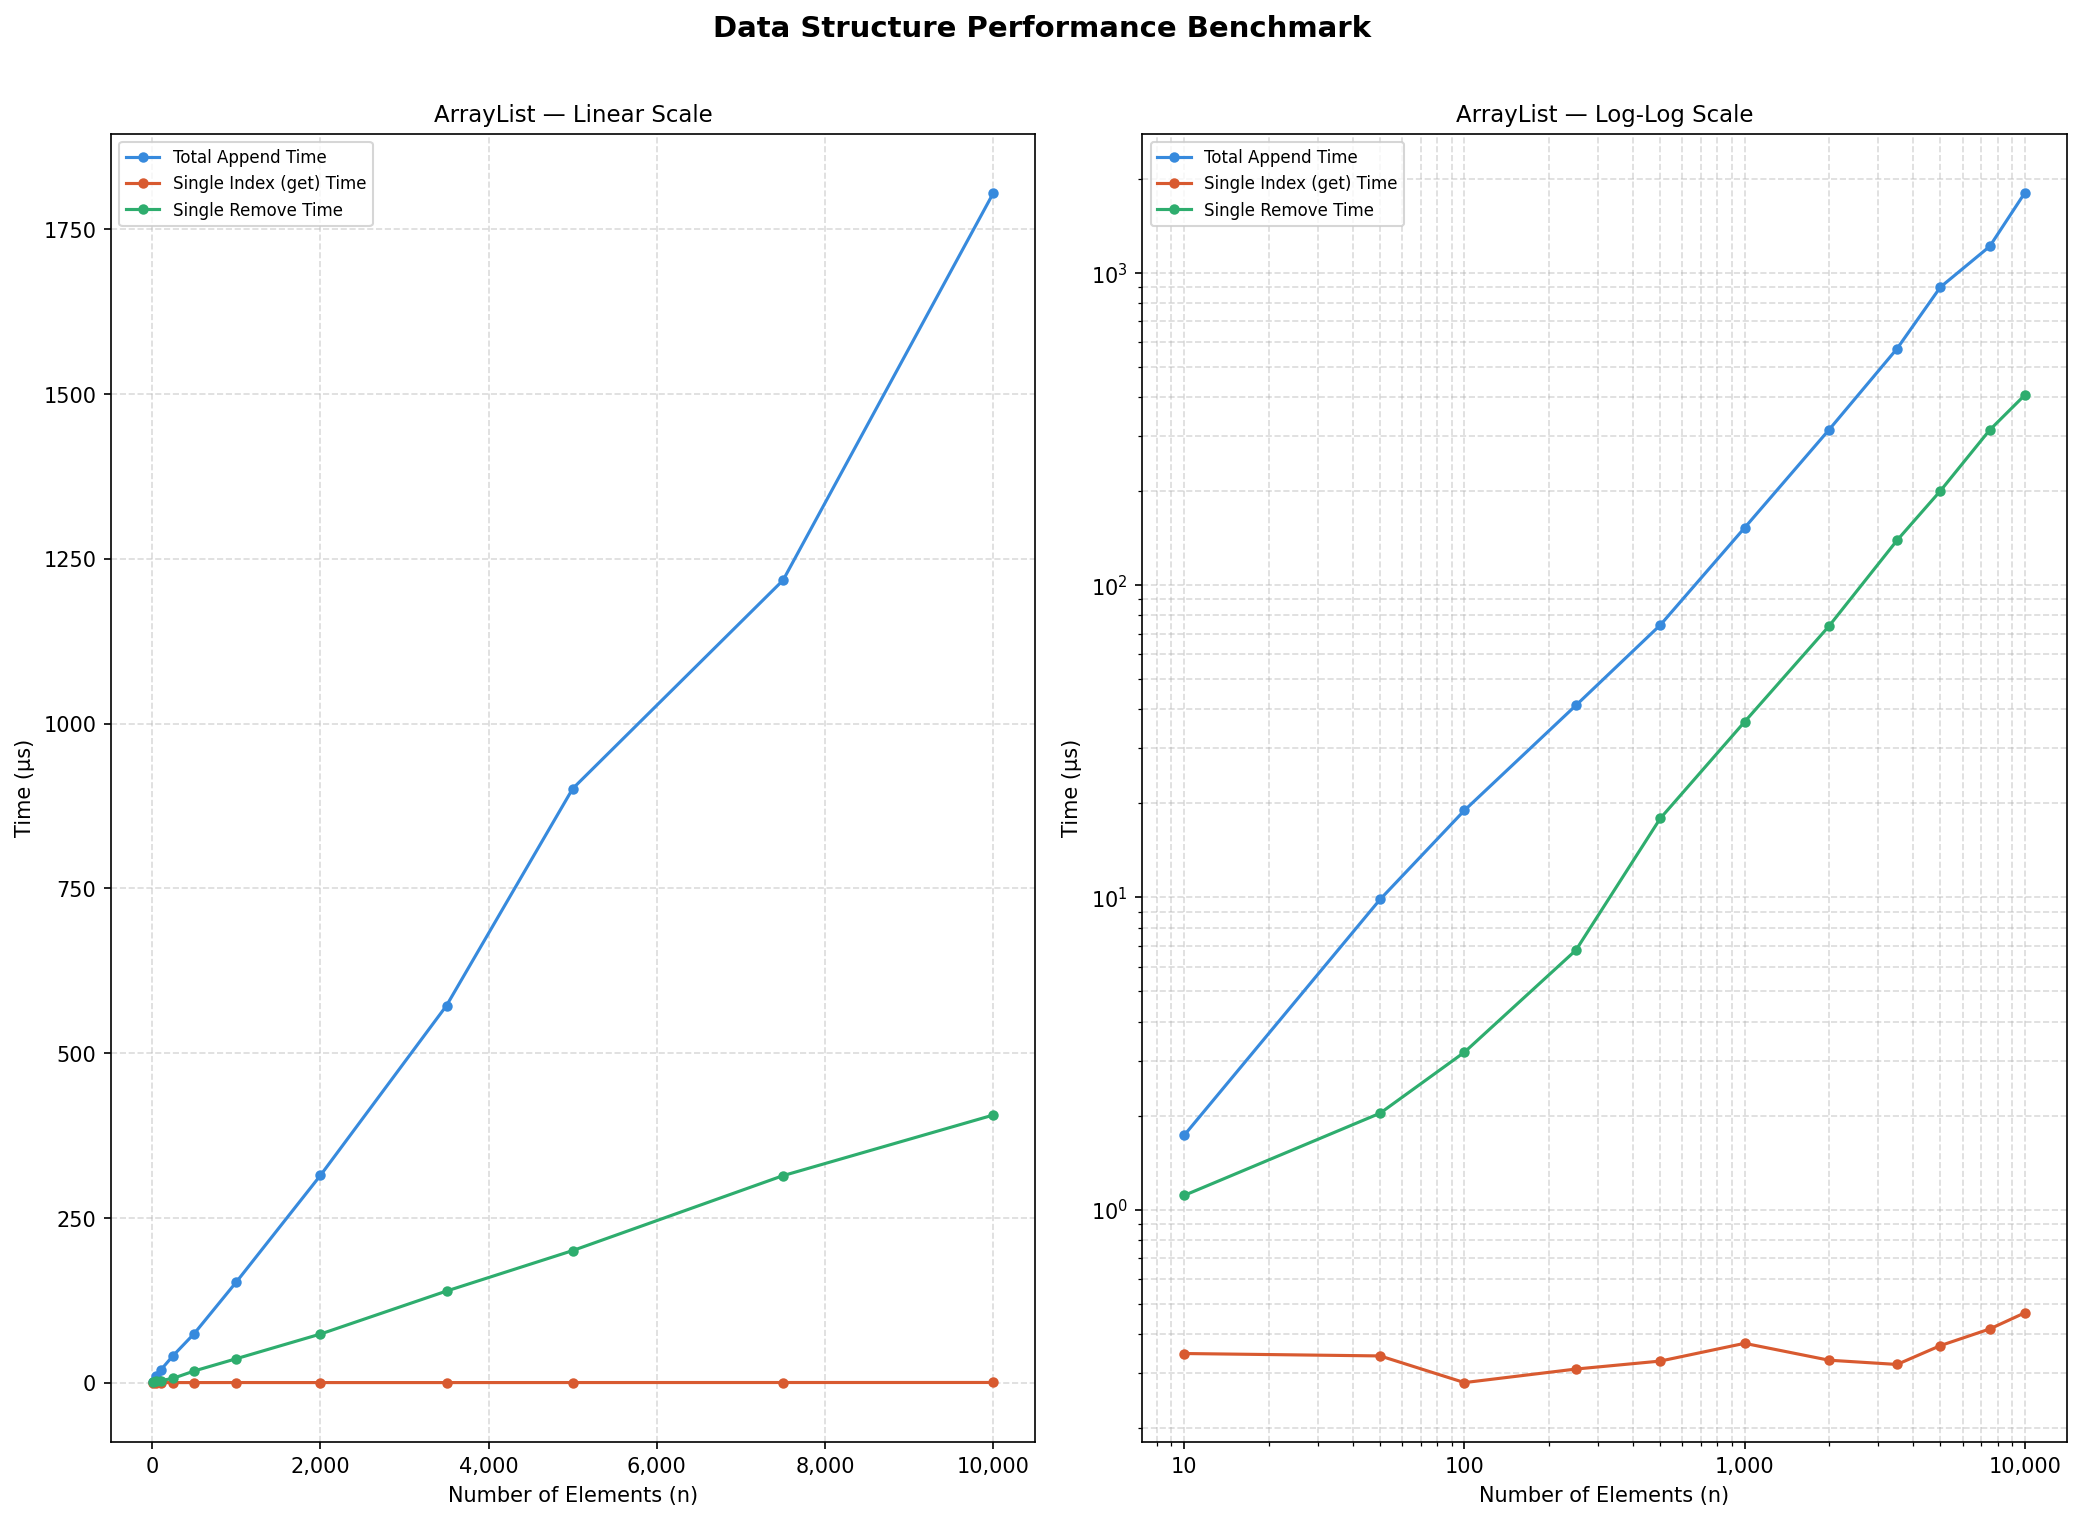
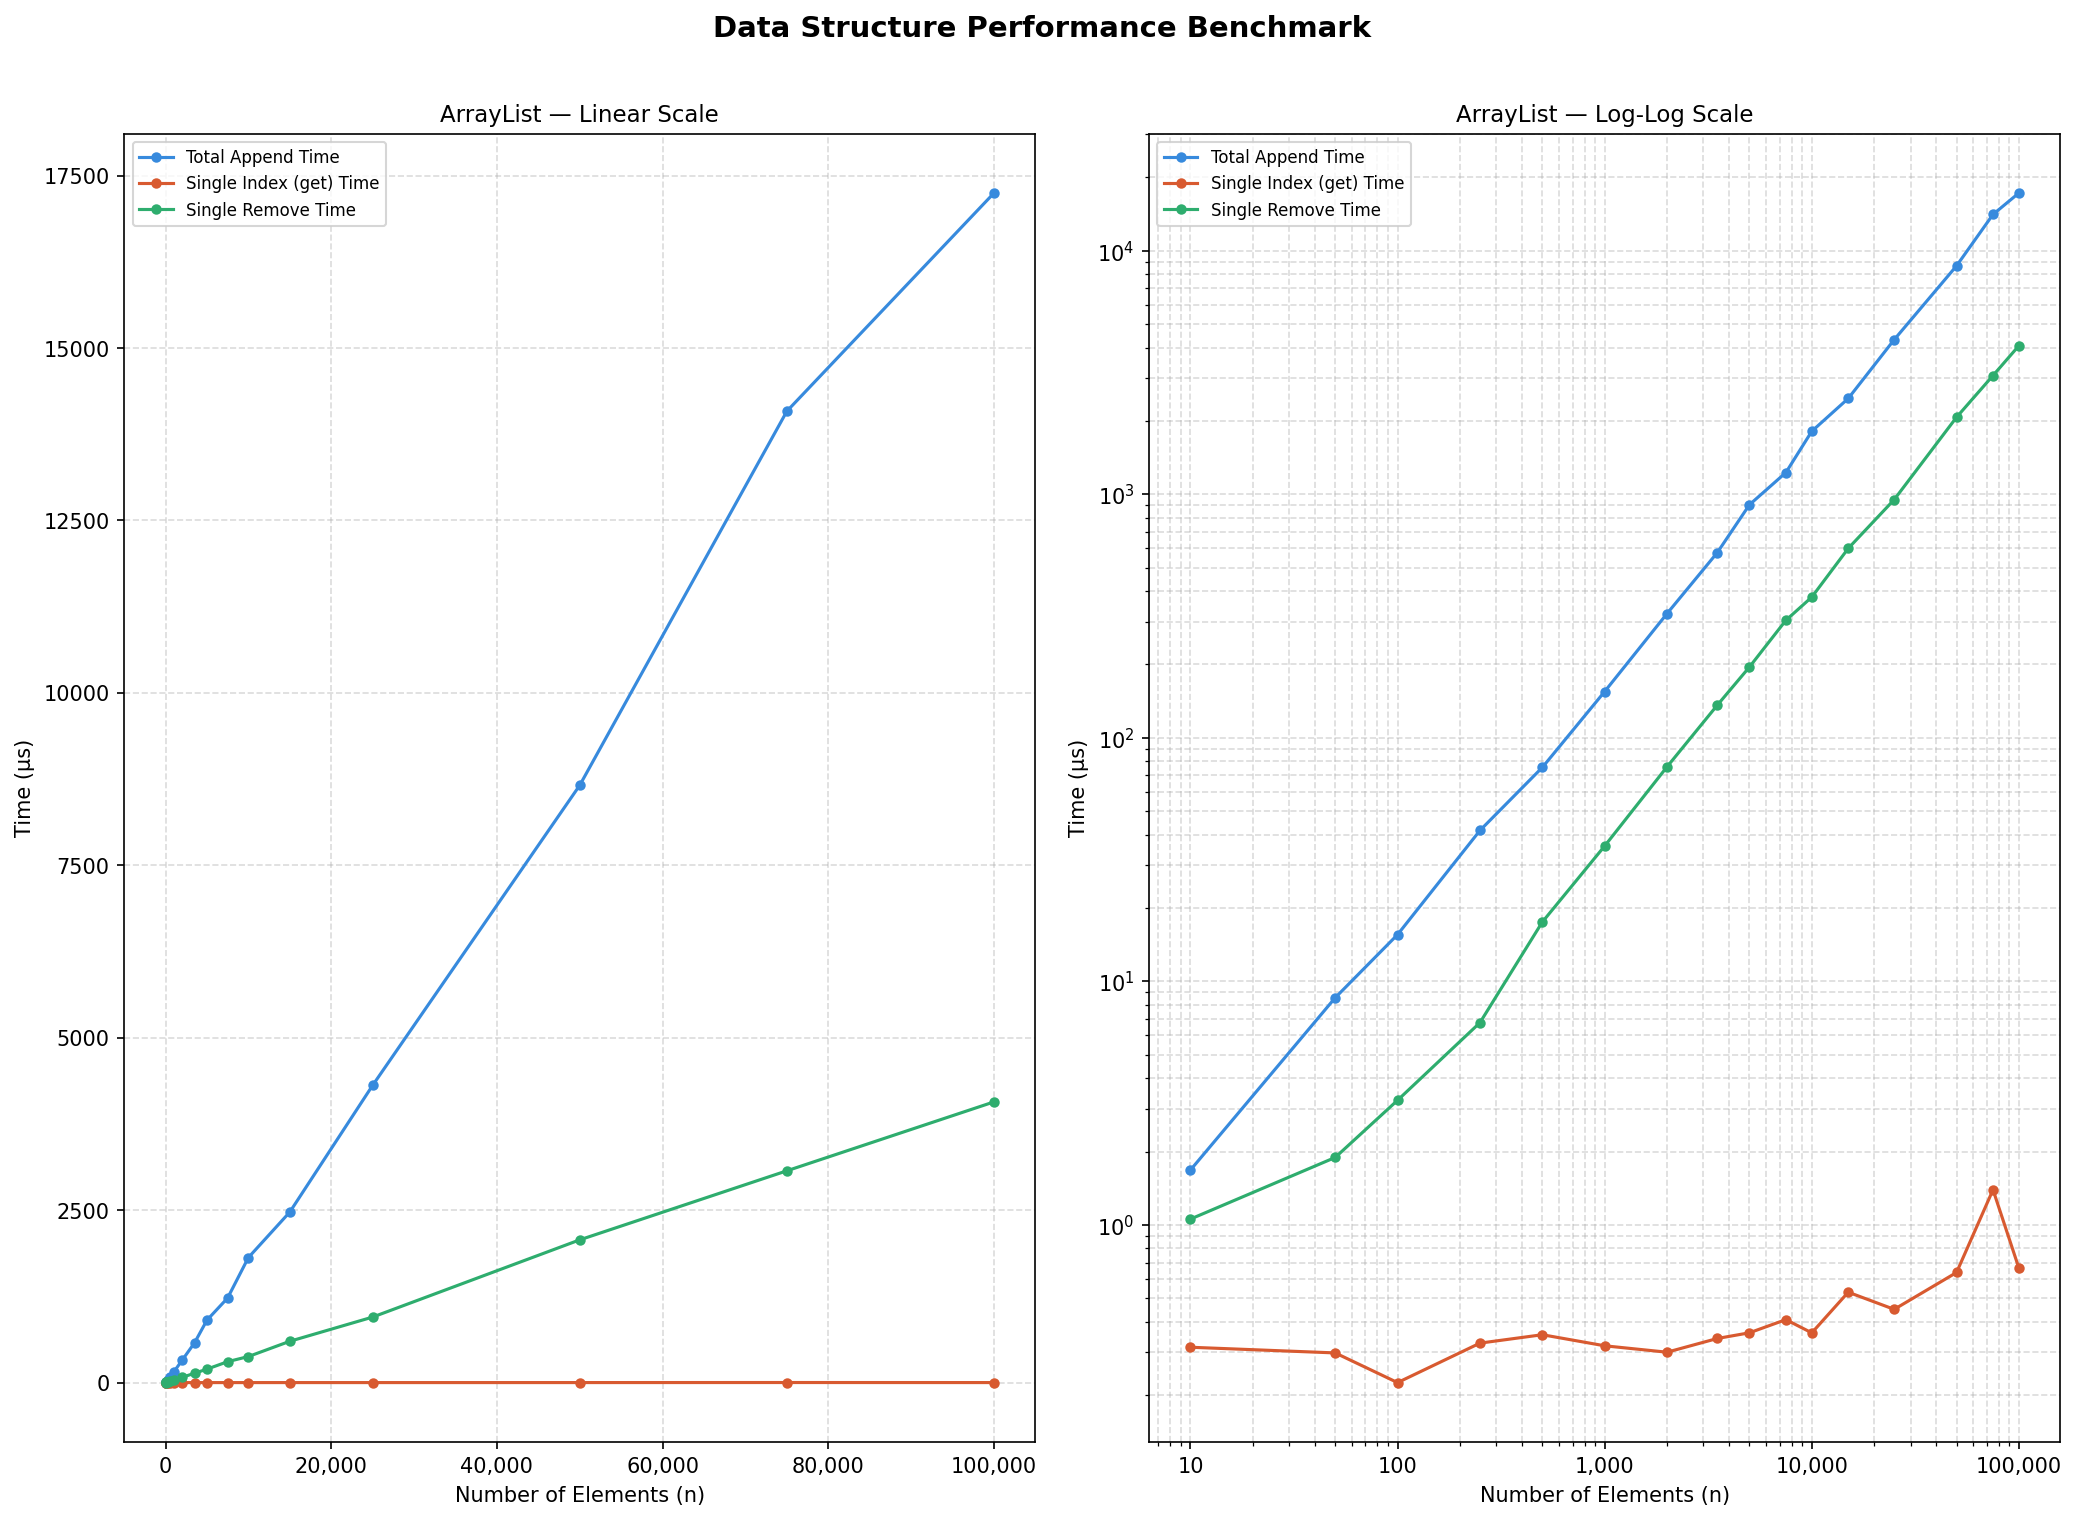
Finished the graphs for the data structures

diff --git a/data_structures/benchmark_ll.py b/data_structures/benchmark_ll.py
@@ -1,0 +1,151 @@
+"""
+benchmark_ll.py
+Measures real execution time of LinkedList operations:
+  - add_last   (append to tail)
+  - remove_first (pop from head)
+  - mixed      (interleaved add/remove)
+
+HOW TO RUN
+----------
+    pip install matplotlib --break-system-packages
+    python benchmark_ll.py
+
+Saves benchmark_ll.png next to this file.
+"""
+
+import time
+import random
+from pathlib import Path
+
+import matplotlib
+matplotlib.use("Agg")
+import matplotlib.pyplot as plt
+import matplotlib.ticker as ticker
+
+# ---------------------------------------------------------------------------
+# Inline LinkedList (no external file dependency)
+# ---------------------------------------------------------------------------
+
+class DoublyNode:
+    def __init__(self, value):
+        self.value = value
+        self.next = None
+        self.prev = None
+
+class LinkedList:
+    def __init__(self):
+        self.head = None
+        self.tail = None
+
+    def add_last(self, value):
+        new_node = DoublyNode(value)
+        if not self.head:
+            self.head = self.tail = new_node
+        else:
+            new_node.prev = self.tail
+            self.tail.next = new_node
+            self.tail = new_node
+
+    def remove_first(self):
+        if not self.head:
+            return None
+        val = self.head.value
+        self.head = self.head.next
+        if self.head:
+            self.head.prev = None
+        else:
+            self.tail = None
+        return val
+
+# ---------------------------------------------------------------------------
+# Config
+# ---------------------------------------------------------------------------
+
+SIZES = [10, 50, 100, 250, 500, 1000, 2000, 3500, 5000, 7500, 10000, 15000, 25000, 50000, 75000, 100000]
+RUNS  = 20
+
+# ---------------------------------------------------------------------------
+# Benchmark
+# ---------------------------------------------------------------------------
+
+add_last_times     = []
+remove_first_times = []
+mixed_times        = []
+
+print("Benchmarking LinkedList...")
+for n in SIZES:
+    t_add = t_remove = t_mixed = 0.0
+
+    for _ in range(RUNS):
+        data = [random.randint(0, 100_000) for _ in range(n)]
+
+        # --- Total add_last time for N elements ---
+        ll = LinkedList()
+        start = time.perf_counter()
+        for v in data:
+            ll.add_last(v)
+        t_add += time.perf_counter() - start
+
+        # --- Single remove_first (list already has N elements) ---
+        start = time.perf_counter()
+        ll.remove_first()
+        t_remove += time.perf_counter() - start
+
+        # --- Mixed: add N/2 then alternate add/remove for N/2 ops ---
+        ll2 = LinkedList()
+        half = n // 2
+        for v in data[:half]:
+            ll2.add_last(v)
+        start = time.perf_counter()
+        for i in range(half, n):
+            if i % 2 == 0:
+                ll2.add_last(data[i])
+            else:
+                ll2.remove_first()
+        t_mixed += time.perf_counter() - start
+
+    add_last_times.append((t_add    / RUNS) * 1_000_000)
+    remove_first_times.append((t_remove / RUNS) * 1_000_000)
+    mixed_times.append((t_mixed  / RUNS) * 1_000_000)
+    print(f"  n={n:6,} done")
+
+# ---------------------------------------------------------------------------
+# Plot
+# ---------------------------------------------------------------------------
+
+BLUE   = "#378ADD"
+ORANGE = "#D85A30"
+GREEN  = "#2EAD6E"
+
+fig, axes = plt.subplots(1, 2, figsize=(14, 5))
+fig.suptitle("LinkedList Performance Benchmark", fontsize=14, fontweight="600", y=1.02)
+
+series = [
+    ("Total add_last Time (N elements)", add_last_times,     BLUE),
+    ("Single remove_first Time",         remove_first_times, ORANGE),
+    ("Mixed add/remove Time (N/2 ops)",  mixed_times,        GREEN),
+]
+
+for label, times, color in series:
+    for ax in axes:
+        ax.plot(SIZES, times, color=color, label=label, marker="o", markersize=4)
+
+for ax, (xlog, ylog), title in zip(
+    axes,
+    [(False, False), (True, True)],
+    ["Linear Scale", "Log-Log Scale"],
+):
+    ax.set_title(title)
+    ax.set_xlabel("Number of Elements (n)")
+    ax.set_ylabel("Time (µs)")
+    if xlog: ax.set_xscale("log")
+    if ylog: ax.set_yscale("log")
+    ax.grid(True, which="both", linestyle="--", alpha=0.45)
+    ax.xaxis.set_major_formatter(ticker.FuncFormatter(lambda v, _: f"{int(v):,}"))
+
+axes[0].legend(fontsize=8)
+fig.tight_layout()
+
+out = Path(__file__).parent / "benchmark_ll.png"
+fig.savefig(out, dpi=150, bbox_inches="tight")
+print(f"\nChart saved → {out.resolve()}")

diff --git a/data_structures/benchmark_da.py b/data_structures/benchmark_da.py
@@ -26,7 +26,7 @@ from dynamic_array import ArrayList
 # Sizes & Config
 # ---------------------------------------------------------------------------
 
-SIZES = [10, 50, 100, 250, 500, 1000, 2000, 3500, 5000, 7500, 10000]
+SIZES = [10, 50, 100, 250, 500, 1000, 2000, 3500, 5000, 7500, 10000, 15000, 25000, 50000, 75000, 100000]
 RUNS = 20
 
 # ---------------------------------------------------------------------------

diff --git a/data_structures/benchmark_ht.py b/data_structures/benchmark_ht.py
@@ -26,7 +26,7 @@ from hash_table import HashTable
 # Sizes & Config
 # ---------------------------------------------------------------------------
 
-SIZES = [10, 50, 100, 250, 500, 1000, 2000, 3500, 5000, 7500, 10000]
+SIZES = [10, 50, 100, 250, 500, 1000, 2000, 3500, 5000, 7500, 10000, 15000, 25000, 50000, 75000, 100000]
 RUNS = 20
 
 # ---------------------------------------------------------------------------
